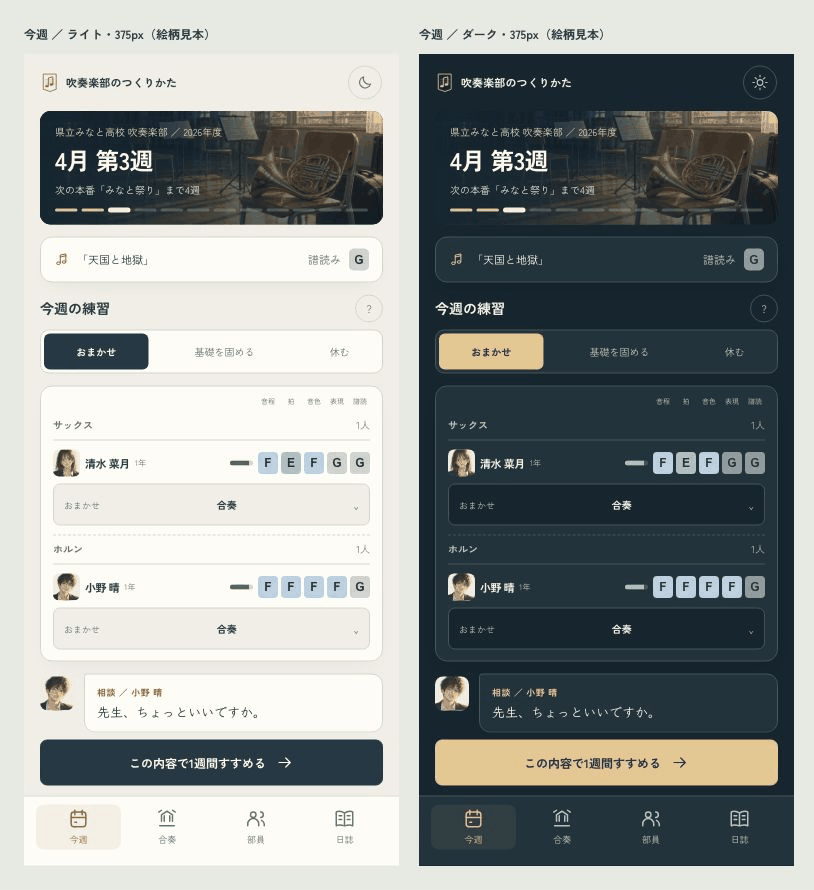
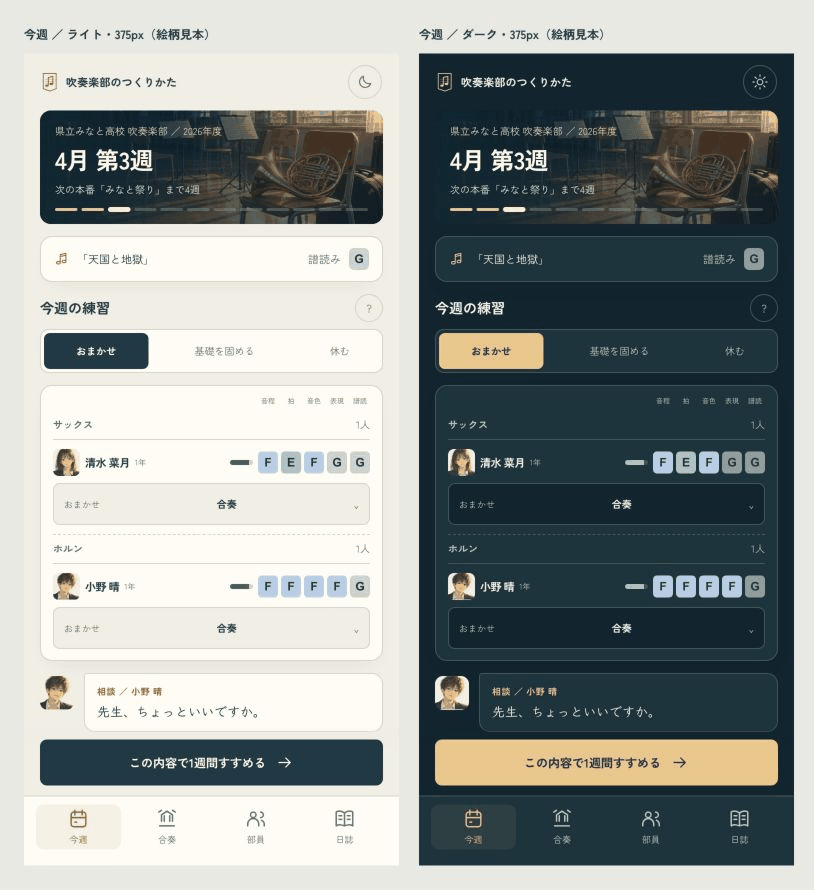
部員の絵柄見本を一年生にも合う年齢感へ調整
頬と顎を柔らかくし、顔の長さと陰影を控えめにした十二人の絵柄見本を追加。画面への仮配置と375pxのライト・ダークの画像を更新した。

ゲーム本体とSVG試作は未変更。前の原稿と生成記録を保持し、オーナーの確認を待つ。

diff --git a/design/after-school/study.js b/design/after-school/study.js
@@ -22,7 +22,7 @@ function stage(){return `${head()}<div class="content"><div class="screen-title"
 function member(){return `${head()}<div class="content"><div class="screen-title"><h1>部員カード</h1><button class="back" data-screen="week" aria-label="今週へ戻る">${ico('back')}</button></div><section class="member-hero"><div class="member-head">${face(0,112)}<div><span class="tag">1年生</span><h2>清水 菜月</h2><p class="sub">アルトサックス 1st</p></div></div><p class="hand say">少しずつ、指が動くようになってきた。</p><p class="dream">${ico('star')}夢：先輩みたいに吹けるようになりたい</p></section>${ability()}<section class="panel skills line"><span>いい耳<span class="mark">○</span></span><span>度胸<span class="mark">○</span></span><button class="help" data-tip="skill-tip" aria-label="スキルについて">?</button></section><p class="tip hidden" id="skill-tip">音程のずれに気づきやすい。本番でも緊張しにくい。</p><section class="panel story"><p><time>4月 第1週</time>アルトサックスで入部。</p><p><time>4月 第2週</time>はじめての新入生歓迎演奏。</p></section><button class="btn primary wide">${ico('play')}この人だけ聴く</button><details class="extra"><summary>譜読み・思い出・席を移す</summary><p>前半（ソロ） ${badge('F')}　後半（全合奏） ${badge('G')}</p></details></div>${tabs('member')}`;}
 function grad(){return `${head()}<div class="content">${roomHead('卒業式','2028年度 ／ 3月')}<section class="panel grad-card"><p class="grad-note">3年間、ありがとう。</p>${face(0,94,'normal',true)}<h2>清水 菜月</h2><p class="sub">アルトサックス ／ 部長</p><div class="growth-ranks">${['音程','リズム','音色','表現'].map((n,i)=>`<div><span>${n}</span><span class="ranks">${badge('G')}<span class="arrow">→</span>${badge(['B','A','B','C'][i])}</span></div>`).join('')}</div></section><section class="panel story grad-story"><p><time>1年生の4月</time>楽器は、はじめてだった。</p><p><time>2年生の8月</time>はじめての金賞。</p><p><time>3年生の10月</time>最後の定期演奏会。</p><p class="bye">みんなと吹いた音、忘れない。</p></section><button class="btn primary wide">${ico('play')}入部のころと聴き比べる</button><div class="paging" aria-hidden="true"><i></i><i></i><i></i><i></i></div><button class="btn wide quiet">次の部員へ${ico('arrow')}</button></div>`;}
 function faceReview(){return `<div class="review"><header class="review-head"><div><p class="tag">放課後の音楽室 ／ 顔の提案</p><h1>夕方の光に合う、12人。</h1><p>SVGパーツの見本。大きい顔と、26px・36pxの表示を比較。</p></div><nav class="review-links"><a href="./">4画面へ</a><a href="?screen=faces&theme=${theme==='light'?'dark':'light'}">${theme==='light'?'ダーク':'ライト'}で見る</a><a href="?screen=reference">絵柄の目標を見る</a></nav></header><section class="face-review"><div class="face-tokens"><span>髪型12</span><span>髪色6</span><span>輪郭4</span><span>目5</span><span>眉4</span><span>口4</span><span>肌4</span><span>名前から性別を決めない</span></div><div class="face-grid">${members.map((m,i)=>`<div class="face-item">${face(i,108)}<b>${m[1]}</b><div class="tiny">${face(i,26)}${face(i,36)}</div><small>${m[2]}</small></div>`).join('')}</div><div class="expressions"><b>同じ部員の表情</b>${['normal','tired','zone','freeze'].map((m,i)=>`<figure>${face(0,62,m)}<figcaption>${['ふつう','疲れ','好調','緊張'][i]}</figcaption></figure>`).join('')}<figure>${face(0,62,'normal',true)}<figcaption>卒業時</figcaption></figure></div></section><p class="review-note">軽いSVGに置き換えるため、原画の描き込みは減らしています。原画そのものの顔ではありません。絵柄の好みと、小さくしたときの見え方を確認するための案です。</p></div>`;}
-function reference(){return `<div class="review"><header class="review-head"><div><p class="tag">顔の絵柄の目標 ／ 画像生成で制作</p><h1>柔らかな夕日の中の、部員たち。</h1><p>LPと同じ原画を光と色の参照に、新しい絵柄見本を制作。</p></div><nav class="review-links"><a href="?screen=faces">SVG版の12人</a><a href="./">4画面へ</a></nav></header><figure class="art-reference"><img src="assets/faces-art-direction.webp" width="1440" height="1080" alt="夕日の光が当たる12人の架空の高校生の絵柄見本"><figcaption>この画像は絵柄の見本で、ゲームにそのまま入れる素材ではありません。ゲームの顔は、別ページのSVGパーツ方式でidから組み立てる案です。このシート上では名前を省き、画面では見本用に仮配置しています。</figcaption></figure></div>`;}
+function reference(){return `<div class="review"><header class="review-head"><div><p class="tag">顔の絵柄の目標 ／ 画像生成で制作</p><h1>柔らかな夕日の中の、部員たち。</h1><p>1〜3年生で共通に使うため、頬と輪郭を柔らかくした年齢感の見本。</p></div><nav class="review-links"><a href="?screen=faces">SVG版の12人</a><a href="./">4画面へ</a></nav></header><figure class="art-reference"><img src="assets/faces-art-direction-v2.webp" width="1440" height="1080" alt="夕日の光が当たる12人の架空の高校生の絵柄見本"><figcaption>この画像は絵柄の見本で、ゲームにそのまま入れる素材ではありません。ゲームの顔は、別ページのSVGパーツ方式でidから組み立てる案です。このシート上では名前を省き、画面では見本用に仮配置しています。</figcaption></figure></div>`;}
 function review(){return `<div class="review"><header class="review-head"><div><p class="tag">吹奏楽部のつくりかた ／ 放課後の音楽室</p><h1>LPの空気を、ゲームの中へ。</h1><p>4画面×ライト・ダーク。各画面は375px。ゲーム本体は未変更。</p></div><nav class="review-links"><a href="?screen=faces">SVGの顔12人</a><a href="?screen=pair&view=member&faces=svg">SVGを画面で比較</a><a href="?screen=reference">顔の絵柄見本</a><a href="../lp/cinema-v2.html">LPへ</a></nav></header><div class="preview-grid">${[['week','今週の練習'],['stage','合奏'],['member','部員カード'],['grad','卒業式']].map(([s,label])=>`<section><h2>${label}</h2><a class="thumb" href="?screen=${s}&theme=light"><img src="screenshots/${s}-light.png" alt="${label}のライト画面"></a><div class="theme-links"><a href="?screen=${s}&theme=light">ライト</a><a href="?screen=${s}&theme=dark">ダーク</a><a href="?screen=pair&view=${s}">並べて見る</a></div></section>`).join('')}</div><div class="palette">${[['背景','paper'],['紙','sheet'],['文字','ink'],['補助文字','soft'],['線','rule'],['真鍮','brass'],['よい','good'],['注意','warn'],['悪い','bad']].map(([label,c])=>`<span><i style="background:var(--${c})"></i>${label}</span>`).join('')}</div><div class="row review-note"><img src="assets/app-icon-1024.svg" alt="アプリアイコン案" width="60" height="60" style="width:60px;height:60px;border-radius:14px"><span>アプリアイコン案 ／ 音符と校章<br><a href="assets/app-icon-1024.svg">1024pxの原稿を見る ↗</a></span></div><p class="review-note">画面の顔は絵柄見本の仮配置です。SVG版は別に比較できます。週送り・音の再生・成績はまだ接続していません。方針、練習の選択、TIPS、4タブ、色の切り替えを触って確認できます。</p></div>`;}
 if(['week','stage','member','grad'].includes(screen)){app.className='phone '+(screen==='week'?'weekly':screen==='grad'?'graduation':'');app.innerHTML=({week,stage,member,grad})[screen]();}
 else if(screen==='faces')app.innerHTML=faceReview();

diff --git a/design/after-school/study.css b/design/after-school/study.css
@@ -13,5 +13,5 @@
 .weekly .room-head{min-height:112px;padding-top:12px;padding-bottom:12px}
 .graduation .room-head{min-height:82px;padding:12px 15px}.grad-card .avatar{width:82px;height:82px}.grad-story p{padding-top:3px;padding-bottom:3px}
 /* 絵柄の確認用。原画の12枠をCSSで切り出すだけで、実装素材とは分ける。 */
-.avatar.art-face{background-image:url(assets/faces-art-direction.webp);background-size:400% 300%;background-repeat:no-repeat}
-.member-head .avatar.art-face,.grad-card .avatar.art-face{background-image:url(assets/faces-art-direction.webp);background-size:400% 300%;background-repeat:no-repeat}
+.avatar.art-face{background-image:url(assets/faces-art-direction-v2.webp);background-size:400% 300%;background-repeat:no-repeat}
+.member-head .avatar.art-face,.grad-card .avatar.art-face{background-image:url(assets/faces-art-direction-v2.webp);background-size:400% 300%;background-repeat:no-repeat}

diff --git a/design/after-school/README.md b/design/after-school/README.md
@@ -20,6 +20,14 @@ worktreeのルートで `python3 -m http.server 8001 --bind 127.0.0.1` を実行
 
 SVGパーツ版は `faces.js` と `assets/faces/member-01.svg`〜`member-12.svg`。原画の絵を埋め込んだものではなく、輪郭・髪・目・眉・口・ほお・小物を別のSVGで描いた軽量化の試作。**原画より大幅に描き込みを省いており、同じ質感にはまだ届いていない。** 画面の見本、絵柄の好み、SVGで残す描き込みを確認し、顔は別途OKをもらう。
 
+## 顔の年齢感の修正（2版）
+
+「1年生から3年生まで共通だから少し大人すぎる」という指摘を受け、絵柄見本を `assets/faces-art-direction-v2.webp` に更新した。頬と顎を柔らかくし、顔の縦の長さと鼻・目元の陰影を控えめにした。1年生にも自然で、3年生としても使える共通の年齢感を狙う。前の12人の並び、髪型、紺の制服、夕日の光は保持し、首の後ろに手を添えた姿勢は自然な姿勢へ変更した。
+
+これは絵柄確認用の画像の修正だけで、SVG試作の年齢感や描き込みは未修正。ゲーム本体も未変更。前の原稿は残した。生成記録は `assets/faces-art-direction-v2.prompt.txt`。画像は1440×1080、193,950 bytes。
+
+4画面の仮配置と撮影を更新。375px・ライト／ダークの8画面で横幅375pxを確認（`screenshots/age-v2-viewport-checks.json`）。連続撮影時に、前回と同じ発生元URLのないMutationObserverエラーが記録された。顔の画像の参照先以外、ゲーム画面の構造や動作は変更していない。
+
 ## SVGの組み立て
 
 - 既存 `util.js` の `hash(id, FACE_SEED, パーツ名)` を読み取り参照。名前・性別・セーブは入力にしない。

diff --git a/design/CREDITS.md b/design/CREDITS.md
@@ -22,4 +22,6 @@
 
 `after-school/faces.js` と `after-school/assets/faces/*.svg`：絵柄見本とは別に、SVGパーツで自作した試作。原画の画素は含まない。グラデーション、顔の各パーツ、小物も自作。
 
+`after-school/assets/faces-art-direction-v2.webp`：オーナーの指摘に合わせ、上の自作見本を組み込みimage_genで編集した年齢感の修正版。1〜3年生で共通に使う顔の絵柄確認用。前の原稿を保持し、ゲーム本体やSVG試作には未反映。生成原稿と最終プロンプトは `faces-art-direction-v2.prompt.txt`。
+
 `after-school/assets/app-icon-1024.svg`：LPで使った校章と音符のマークから自作したアイコン。PNGはローカルブラウザで描画した原稿から書き出した。ゲームのアイコンファイルはまだ変更しない。
